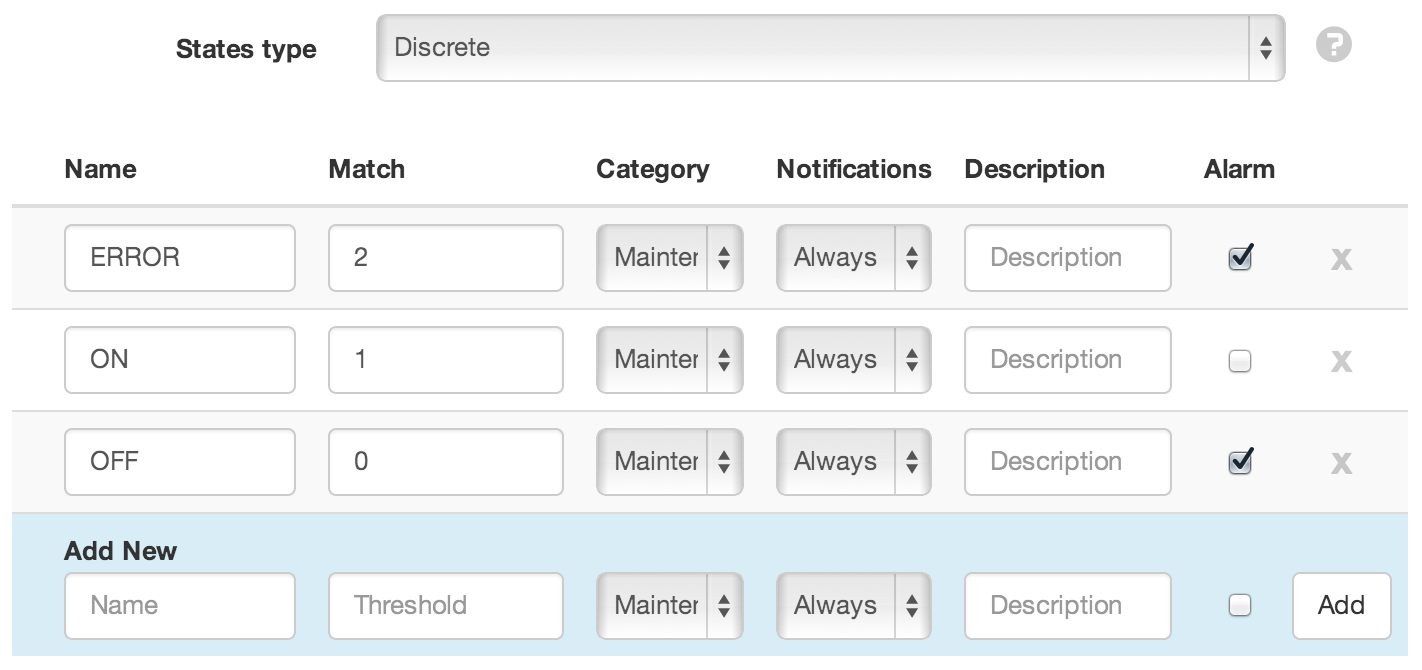
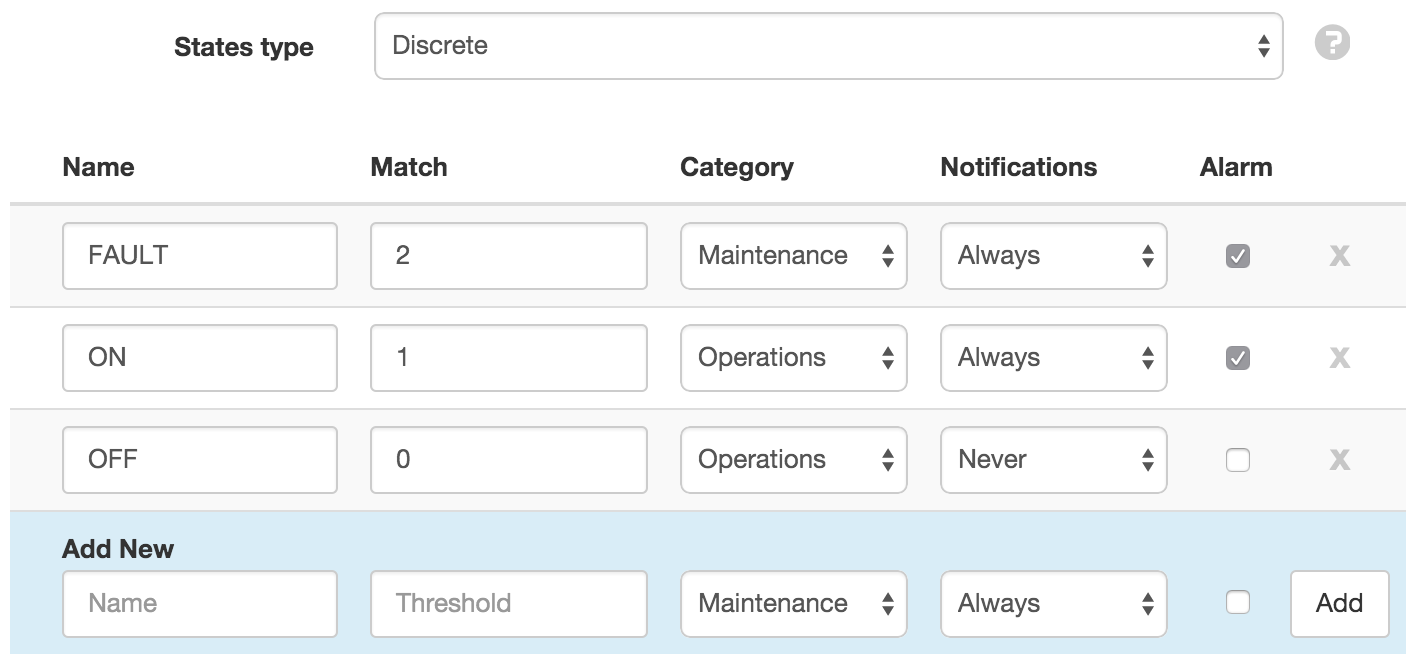
updated parameter states section - removed description field

diff --git a/source/topics/nodes/parameter.rst b/source/topics/nodes/parameter.rst
@@ -157,9 +157,6 @@ Threshold
 Match / Contains
     Specify the value to match (Number Parameters) or a value that is contained in the data (Text Parameters). Applies to Discrete states only.
 
-Description
-    Enter a description to save with the State.
-
 Category, Notifications, Alarm
     Configure Alarm and Notification preferences. See :ref:`Alarms and Notifications <alarms-and-notifications>` for full details.
 
